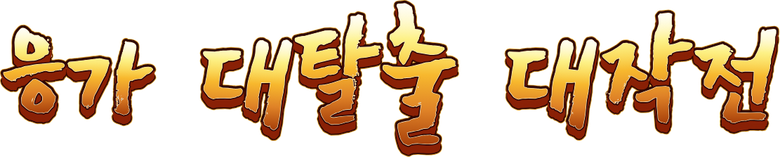
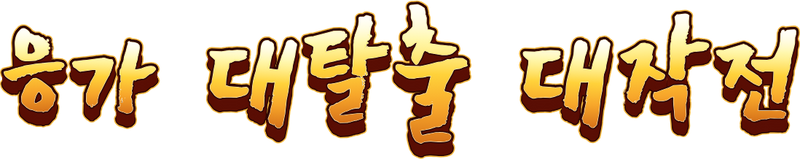
Sky Adventure: 한글 부제 C1(붓글씨) 가독성 보강 — 획 굵게·밝은 노랑·두꺼운 적갈 외곽·큰 입체 그림자·금색 테 굵게·화면 뒤 어두운 번짐 그림자 · 크기 키움 (미리보기, 기본 로고 미변경)
Claude-Session: https://claude.ai/code/session_011LWBdaMrjA1BLGjF6h5PmT

diff --git a/src/sky/sky.css b/src/sky/sky.css
@@ -814,5 +814,7 @@ body.sky-hub-on .hub-back { display: none; }
 .pv-box .sky-btn small { font-size: 10px; font-weight: 400; opacity: 0.85; }
 .pv-note { margin: 2px 0; font: 400 11px/1.45 'Galmuri11', monospace; color: #cfc6f0; text-align: center; }
 /* 부제 붓글씨(C*) · 픽셀(P1) 시안 */
-.ttl2-logo.cand img.cand-subimg.kC1, .ttl2-logo.cand img.cand-subimg.kC3, .ttl2-logo.cand img.cand-subimg.kC4 { width: min(82vw, 350px); margin-top: -12px; filter: drop-shadow(0 2px 0 rgba(20, 4, 0, 0.8)); }
+.ttl2-logo.cand img.cand-subimg.kC3, .ttl2-logo.cand img.cand-subimg.kC4 { width: min(82vw, 350px); margin-top: -12px; filter: drop-shadow(0 2px 0 rgba(20, 4, 0, 0.8)); }
 .ttl2-logo.cand img.cand-subimg.kP1 { width: min(82vw, 326px); margin-top: -4px; image-rendering: pixelated; filter: none; }
+/* F + C1 확정안: 크게 · 금색 테 바깥에 어두운 그림자 2겹(또렷한 아래 그림자 + 번짐)으로 배경과 분리 */
+.ttl2-logo.cand img.cand-subimg.kC1 { width: min(88vw, 370px); margin-top: -14px; filter: drop-shadow(0 3px 0 #1a0400) drop-shadow(0 0 5px rgba(20, 4, 0, 0.95)) drop-shadow(0 0 10px rgba(20, 4, 0, 0.7)); }
